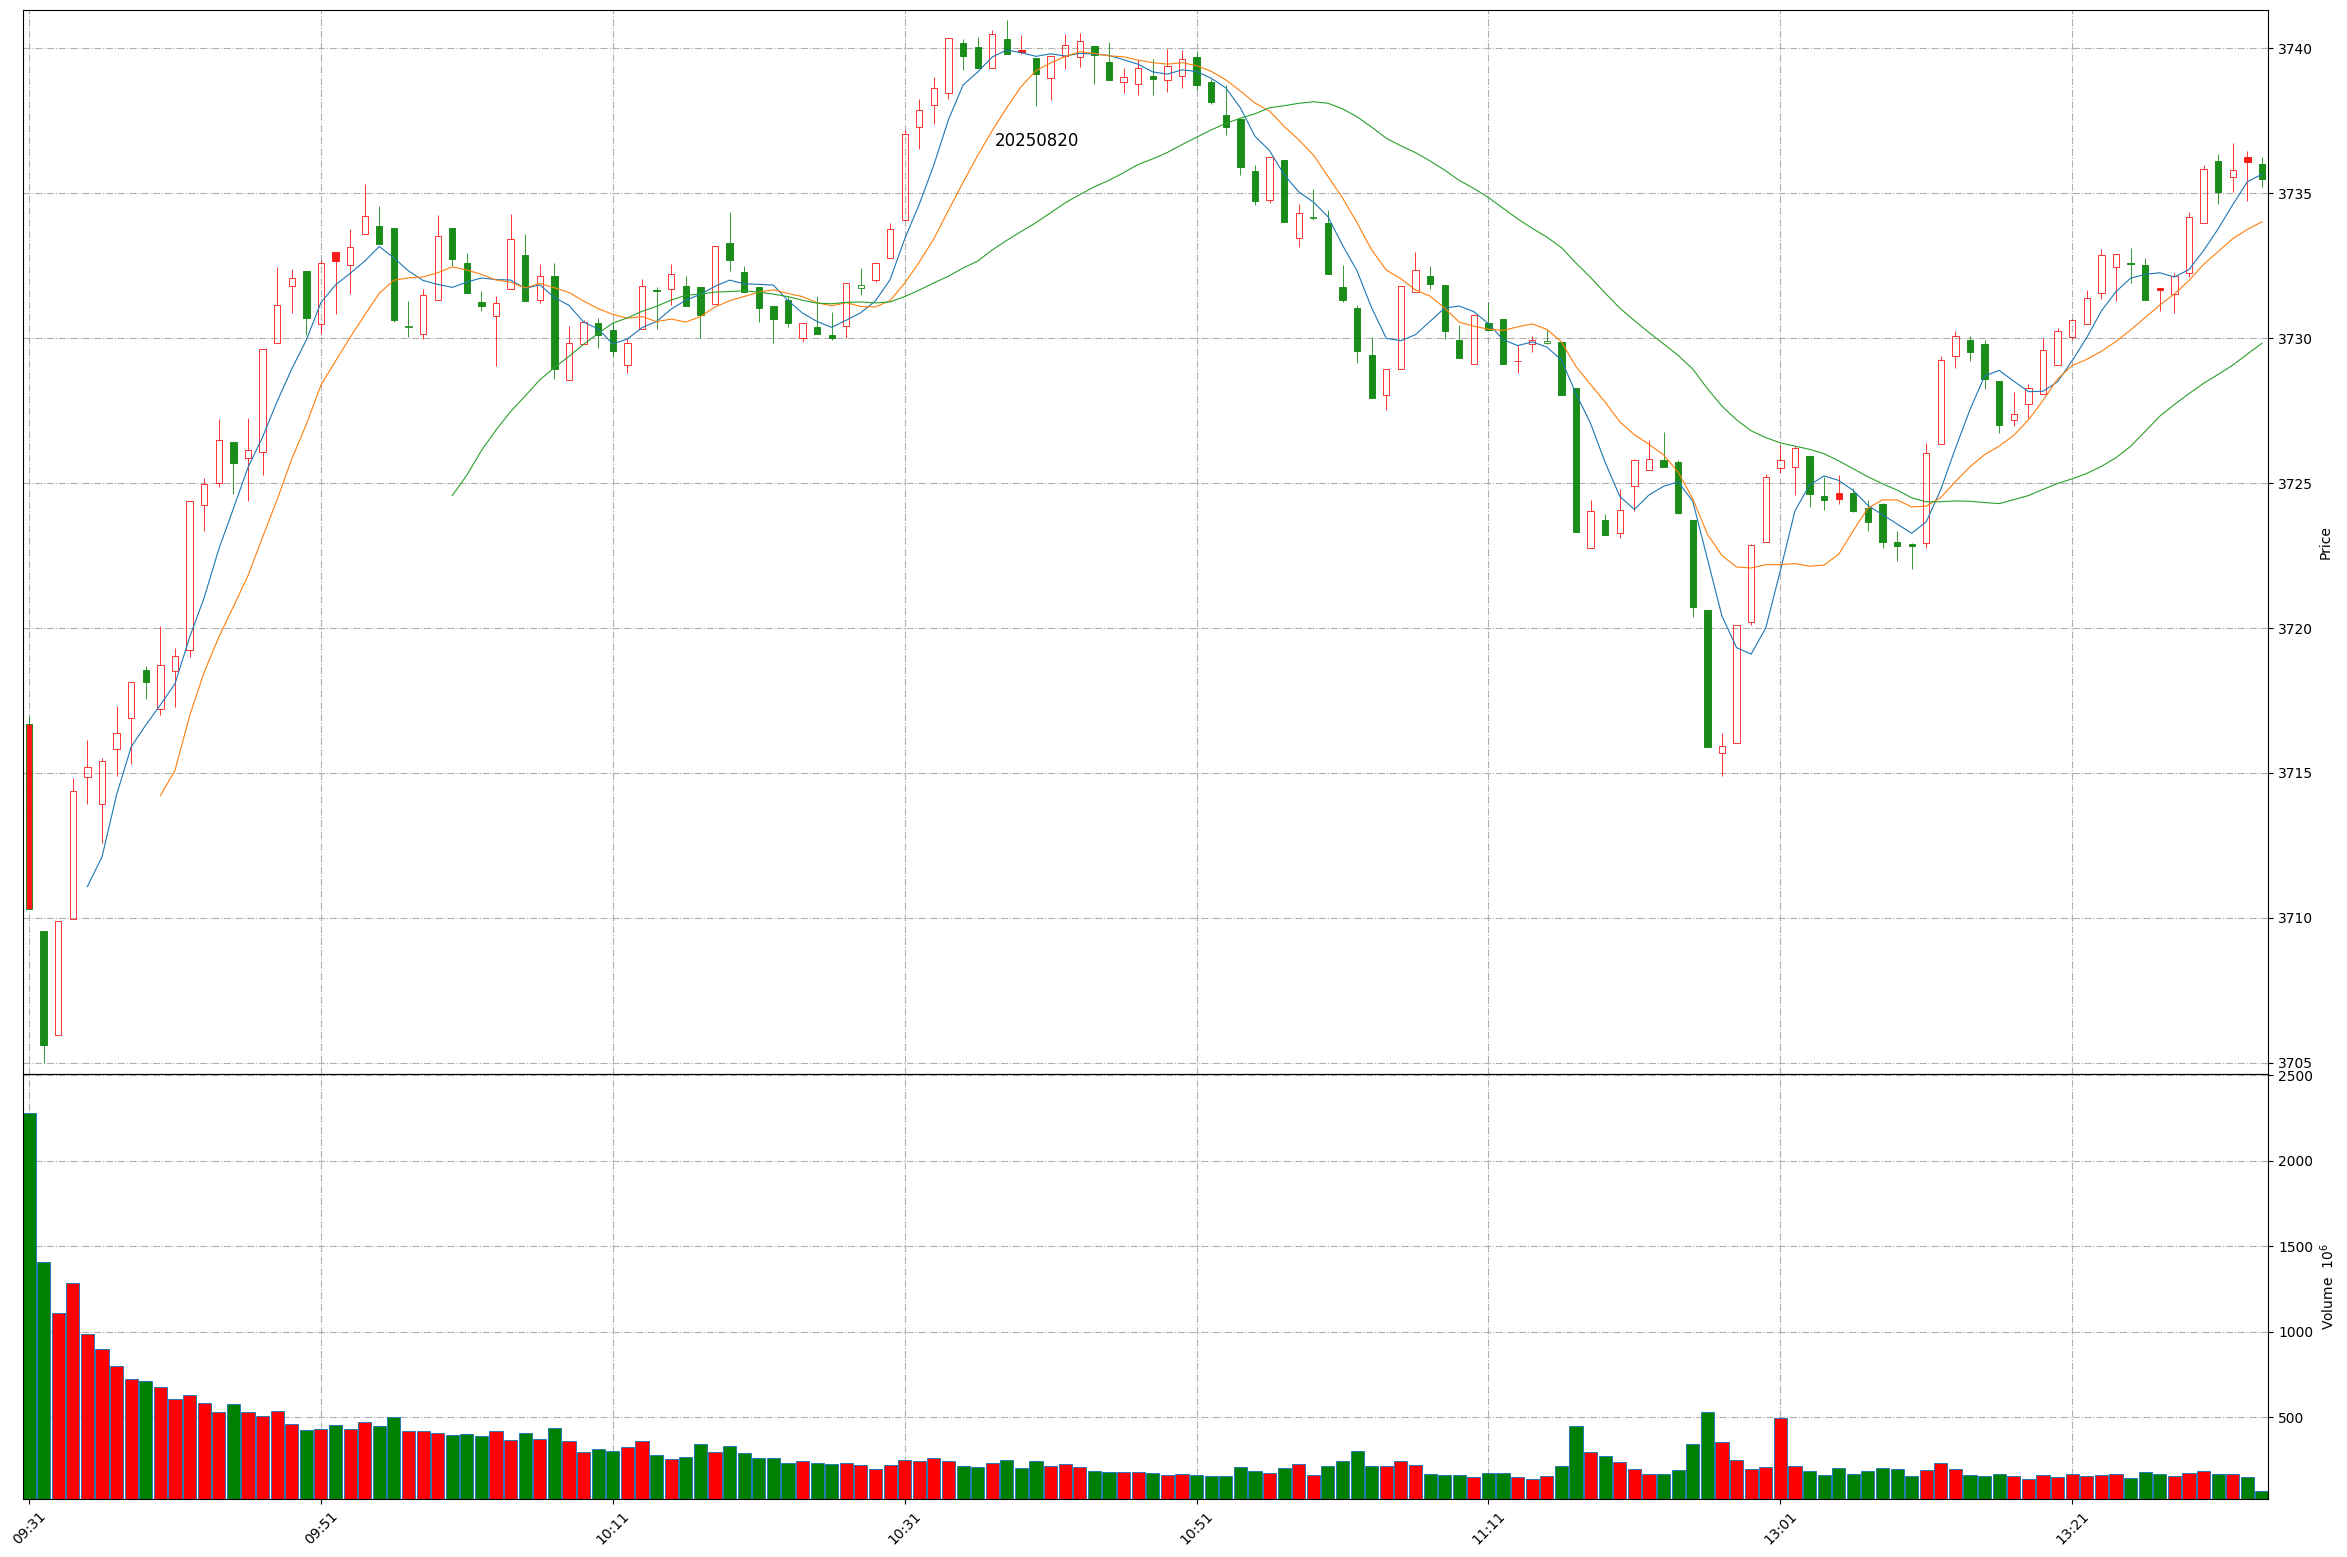
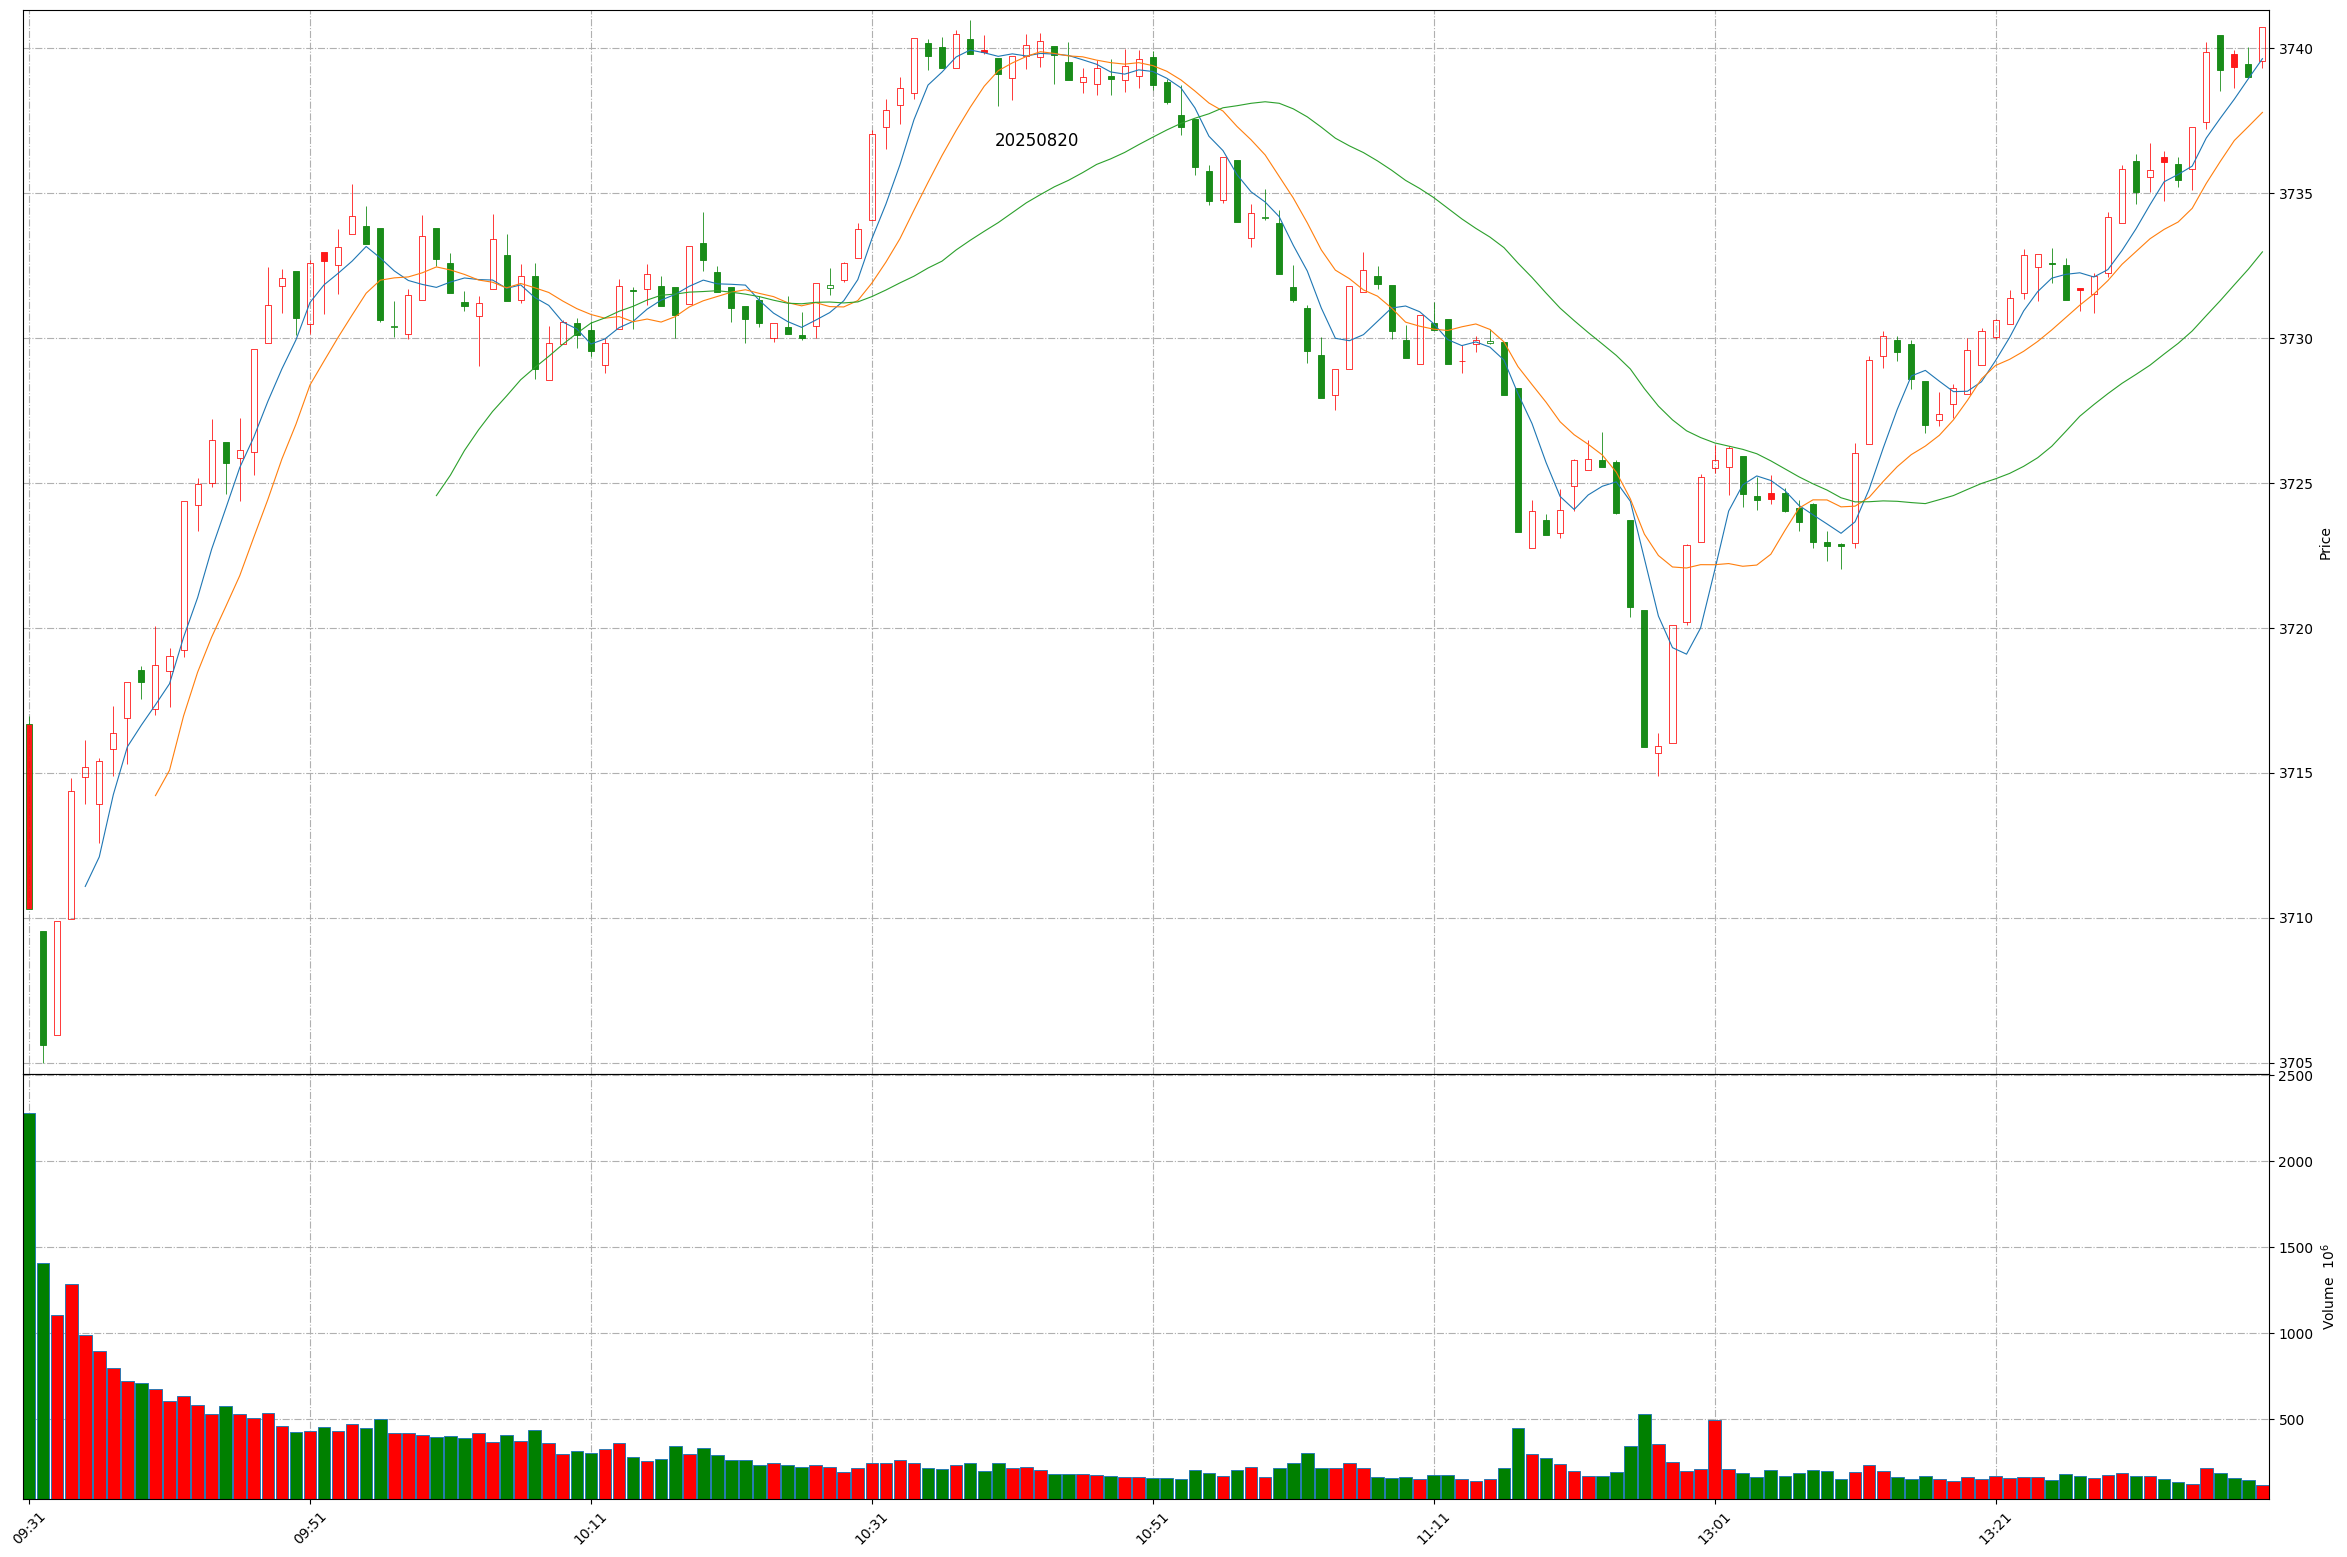
Github action update at 2025-08-20 13:40:02.

diff --git a/README.md b/README.md
@@ -1,11 +1,11 @@
 
 # Daily-A-share-market-quotes 每日 A 股指数（5min 更新）- 20250820
 
-### 上证指数 20250820 13:33
+### 上证指数 20250820 13:40
 ![](./fig/2025/8/20250820-sh000001.png)
 
-### 深证成指 20250820 13:33
+### 深证成指 20250820 13:40
 ![](./fig/2025/8/20250820-sz399001.png)
 
-### 北证50 20250820 13:33
+### 北证50 20250820 13:40
 ![](./fig/2025/8/20250820-bj899050.png)
